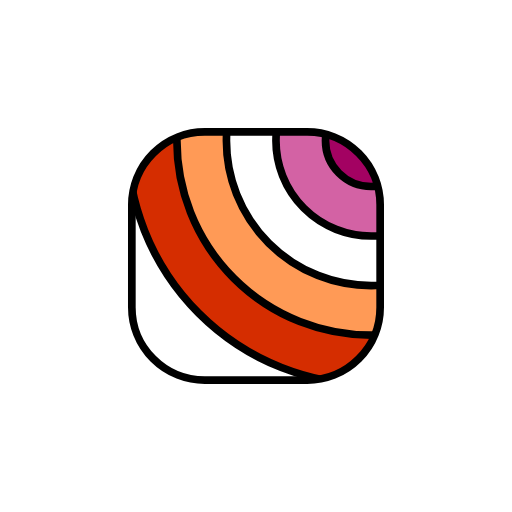
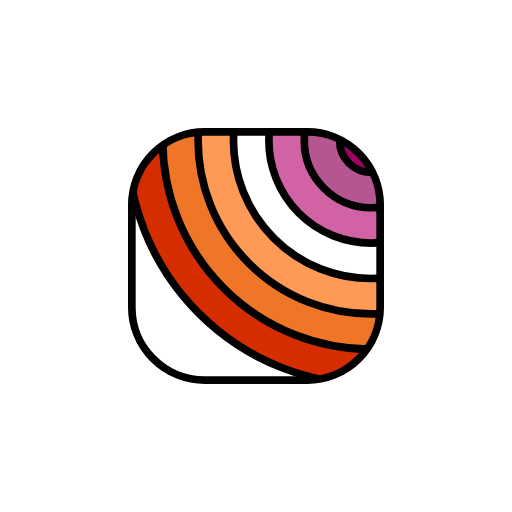
Draw the lesbian palette as the seven-stripe flag, matching gay men's
A reviewer pointed out that the lesbian palette used the five-stripe
flag while the gay men's palette used the seven-stripe Vincian flag.
Both flags exist in five- and seven-stripe forms, so the picker mixed
the two variants. The lesbian palette now carries the 2018 original:
#D52D00 #EF7627 #FF9A56 #FFFFFF #D162A4 #B55690 #A30262.

The door field picks the first inner chromatic band, which would have
moved lesbian's field from #FF9A56 to the new #EF7627. The field is
named as #FF9A56 instead, beside rainbow's and bisexual's, so the
screens look the same as before.

The splash rings and the mark (favicon, brand files, Android adaptive
foregrounds) are regenerated with render:splash and render:mark; only
the lesbian files changed. Unit suite and svelte-check pass, the
built-document tests pass after a build.

Changed region(s): [[0.3125, 0.25, 0.75, 0.6875], [0.5, 0.25, 0.75, 0.5]]

diff --git a/src/lib/theme/roles.ts b/src/lib/theme/roles.ts
@@ -476,11 +476,12 @@ function readStripes(doc: Document): string[] {
     rule 3): the first later chromatic band of `--motif-stripes` that
     differs from the outermost band, preferring an inner band -
     so bisexual's doubled outer stop is skipped by colour rather than by
-    index, and the whole flag stays drawn in the sun with no band stolen. Two
+    index, and the whole flag stays drawn in the sun with no band stolen. Three
     flags name their own band: the six-stripe rainbow takes its blue rather
-    than its orange (Alicja, 2026-09-07, round two), and bisexual takes its
+    than its orange (Alicja, 2026-09-07, round two), bisexual takes its
     dark blue rather than its purple (Alicja, 2026-09-07, on ticket 23's
-    renders). Where no inner band is chromatic, the first later colour
+    renders), and lesbian keeps the light orange it had as a five-stripe flag
+    after moving to seven stripes (2026-11-25). Where no inner band is chromatic, the first later colour
     becomes the field. A flag with no such band falls back to its first
     colour, then to its first stripe. Polish uses white in light mode and
     red in dark mode, opposite its single sun disc.
@@ -491,7 +492,7 @@ function readStripes(doc: Document): string[] {
     tests/palette-contrast.test.ts holds every flag's pair to that floor and
     to the table DIRECTION.md prints. Ticket 23 publishes the pair beside the
     roles; this is the arithmetic it publishes. */
-const FIELD_NAMED_BAND: Record<string, string> = { rainbow: '#004CFF', bisexual: '#0038A8' };
+const FIELD_NAMED_BAND: Record<string, string> = { rainbow: '#004CFF', bisexual: '#0038A8', lesbian: '#FF9A56' };
 
 export interface FlagField {
   hex: string;

diff --git a/src/lib/styles/screens.css b/src/lib/styles/screens.css
@@ -579,7 +579,7 @@
 [data-swatch="nonbinary"] { background: linear-gradient(to bottom, #FCF434 0 25%, #FFF 25% 50%, #9C59D1 50% 75%, #2C2C2C 75%); }
 [data-swatch="genderfluid"] { background: linear-gradient(to bottom, #FF76A4 0 20%, #FFF 20% 40%, #C011D7 40% 60%, #2F2F2F 60% 80%, #2F3CBE 80%); }
 [data-swatch="bisexual"] { background: linear-gradient(to bottom, #D60270 0 40%, #9B4F96 40% 60%, #0038A8 60%); }
-[data-swatch="lesbian"] { background: linear-gradient(to bottom, #D52D00 0 20%, #FF9A56 20% 40%, #FFF 40% 60%, #D362A4 60% 80%, #A30262 80%); }
+[data-swatch="lesbian"] { background: linear-gradient(to bottom, #D52D00 0 14.29%, #EF7627 14.29% 28.57%, #FF9A56 28.57% 42.86%, #FFF 42.86% 57.14%, #D162A4 57.14% 71.43%, #B55690 71.43% 85.71%, #A30262 85.71%); }
 [data-swatch="pansexual"] { background: linear-gradient(to bottom, #FF218C 0 33.34%, #FFD800 33.34% 66.67%, #21B1FF 66.67%); }
 [data-swatch="rainbow"] { background: linear-gradient(to bottom, #E40303 0 16.67%, #FF8C00 16.67% 33.34%, #FFED00 33.34% 50%, #008026 50% 66.67%, #004CFF 66.67% 83.34%, #732982 83.34%); }
 [data-swatch="agender"] { background: linear-gradient(to bottom, #1A1A1A 0 14.29%, #B9B9B9 14.29% 28.58%, #FFF 28.58% 42.86%, #B9F484 42.86% 57.15%, #FFF 57.15% 71.44%, #B9B9B9 71.44% 85.72%, #1A1A1A 85.72%); }

diff --git a/src/app.html b/src/app.html
@@ -229,7 +229,7 @@
 [data-palette=bisexual]{--splash-rings:#0038A8 0% 16.35%,#000 16.35% 19.35%,#0038A8 19.35% 35.7%,#000 35.7% 38.7%,#9B4F96 38.7% 55.05%,#000 55.05% 58.05%,#D60270 58.05% 74.4%,#000 74.4% 77.4%,#D60270 77.4% 93.75%,#000 93.75% 96.75%,#FFFFFF 96.75%}
 [data-palette=bisexual][data-theme=light]{--splash-ground:#FAF6F9}
 [data-palette=bisexual][data-theme=dark]{--splash-ground:#160F17}
-[data-palette=lesbian]{--splash-rings:#A30262 0% 16.35%,#000 16.35% 19.35%,#D362A4 19.35% 35.7%,#000 35.7% 38.7%,#FFFFFF 38.7% 55.05%,#000 55.05% 58.05%,#FF9A56 58.05% 74.4%,#000 74.4% 77.4%,#D52D00 77.4% 93.75%,#000 93.75% 96.75%,#FFFFFF 96.75%}
+[data-palette=lesbian]{--splash-rings:#A30262 0% 10.82%,#000 10.82% 13.82%,#B55690 13.82% 24.64%,#000 24.64% 27.64%,#D162A4 27.64% 38.46%,#000 38.46% 41.46%,#FFFFFF 41.46% 52.29%,#000 52.29% 55.29%,#FF9A56 55.29% 66.11%,#000 66.11% 69.11%,#EF7627 69.11% 79.93%,#000 79.93% 82.93%,#D52D00 82.93% 93.75%,#000 93.75% 96.75%,#FFFFFF 96.75%}
 [data-palette=lesbian][data-theme=light]{--splash-ground:#FBF7F4}
 [data-palette=lesbian][data-theme=dark]{--splash-ground:#191210}
 [data-palette=pansexual]{--splash-rings:#21B1FF 0% 29.25%,#000 29.25% 32.25%,#FFD800 32.25% 61.5%,#000 61.5% 64.5%,#FF218C 64.5% 93.75%,#000 93.75% 96.75%,#FFFFFF 96.75%}

diff --git a/src/lib/theme/palettes.css b/src/lib/theme/palettes.css
@@ -88,7 +88,7 @@
 
 /* ---------- Lesbian ---------- */
 [data-palette="lesbian"] {
-  --motif-stripes: #D52D00, #FF9A56, #FFFFFF, #D362A4, #A30262;
+  --motif-stripes: #D52D00, #EF7627, #FF9A56, #FFFFFF, #D162A4, #B55690, #A30262;
 }
 [data-palette="lesbian"][data-theme="light"] {
   --bg: #FBF7F4; --surface: #FFFFFF; --surface-2: #F4EBE4;
